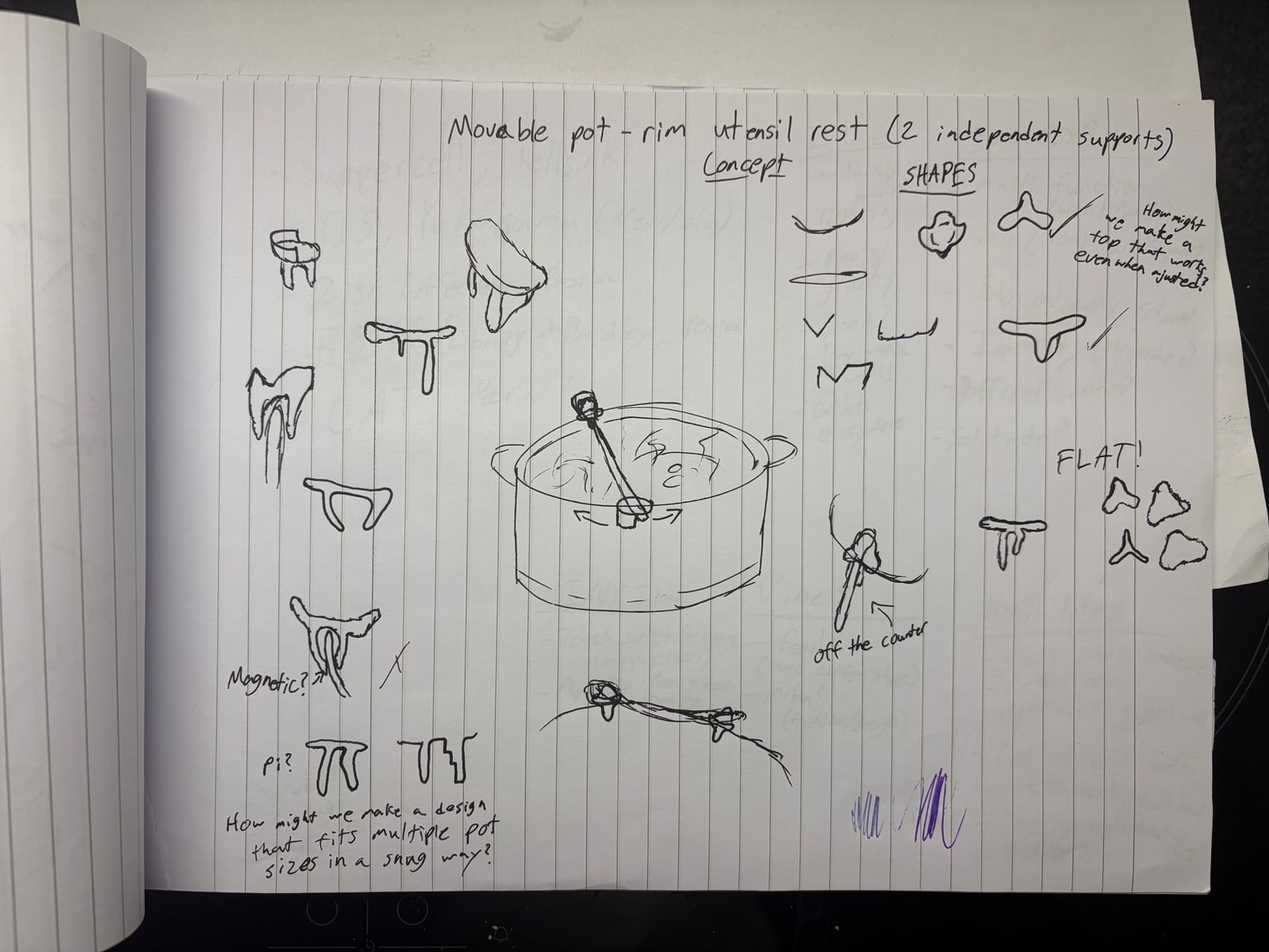
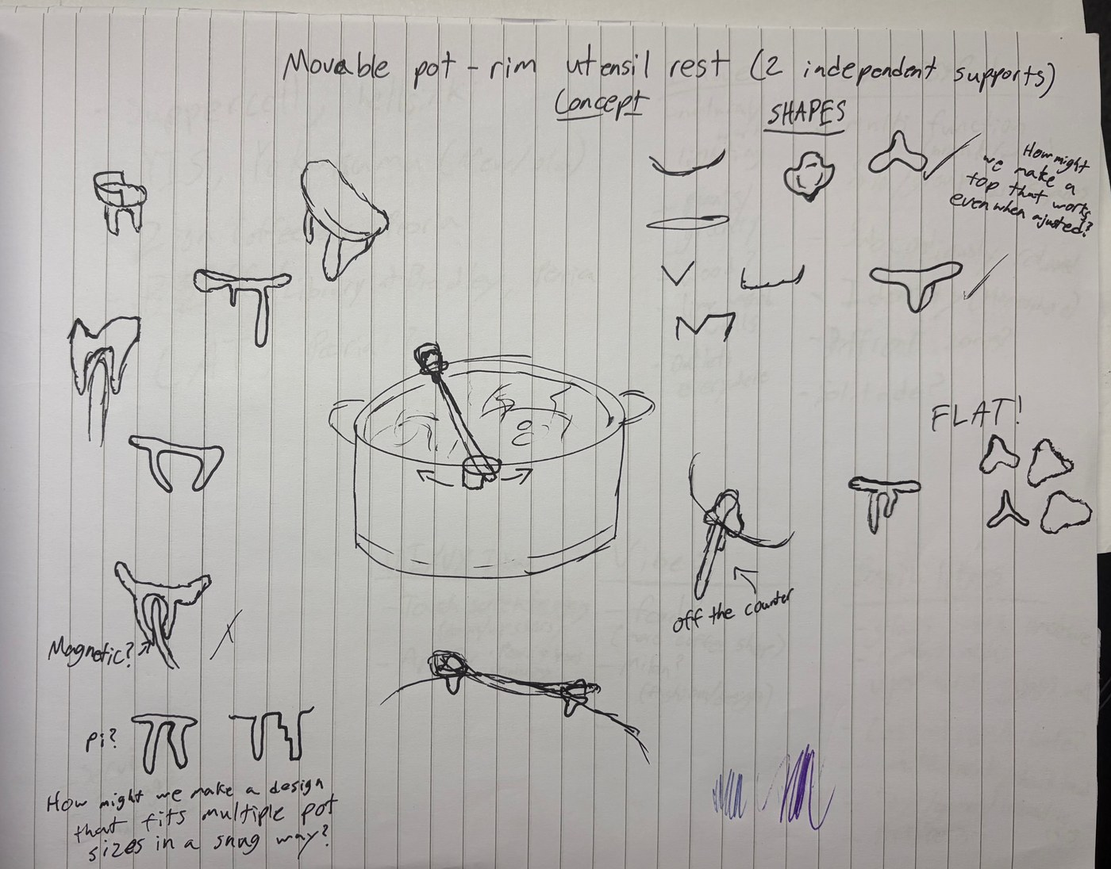
A taller storefront, card 1 cropped to match, and two things cut
Five asks in one pass.

THE RESEARCH SECTION'S CLOSING LINE IS GONE - "I explored five directions,
from an S-hook to an egg cup..." - so the section ends on the notes
themselves. The key went with it rather than being left unreferenced.

THE STOREFRONT IS A NEW PHOTOGRAPH AND A NEW FILENAME. newalessistore.JPG
is the same shopfront framed taller - 9:16 as shot against the old 4:5 - so
it draws 340x600 beside 566px of notes instead of 340x424. The filename is
the point: vercel.json gives everything under /assets/ an hour of freshness
and a WEEK of stale-while-revalidate, so replacing a photograph in place
shows returning visitors the old one for up to a week. For a re-crop that is
a shrug; for a different picture it is wrong. cs-store.* is deleted.

CARD 1'S PAIR IS CROPPED TO ADD UP TO THE PHOTOGRAPH BESIDE IT. Card 2 is a
single 4:5 portrait, 551px of image at a 441px column, so with a 12px gap
and two 3px borders a side the pair owes 533 between them - 345 for the
sketch spread, 188 for the paper profiles. Those two numbers are the aspect
ratios the files now carry: 1400x1096 is 1.277:1, 1400x596 is 2.349:1.
Measured, the stack lands within 7px of card 2 at every width from 320 to
1440, because both sides scale with the column and only the gap does not;
at 1440 and in Japanese it is exact, 557 against 557.

Both re-cropped from the ORIGINALS, not from the exports, which are already
one downscale deep. The profiles lost height and nothing else - the three
[…]

diff --git a/i18n.js b/i18n.js
@@ -86,7 +86,6 @@
       'proj.pot-clip.role': "Design & Fabrication",
       'proj.pot-clip.body': "The brief was a ten-centimetre cube: design a piece of kitchenware in the spirit of Alessi, close enough that you could believe you'd found it in a shop. I started at the Alessi store in Milan, looking at what they actually make — small silver objects, simple, almost always some everyday ritual made slightly better. Then I cooked more than usual and waited for something to annoy me.\n\nWhat annoyed me was the spoon. There's no clean place to put it down: the counter gets messy, and balancing it on the rim means it slides or drops in. Rests for this exist, but most clip in one spot and hold one thing. Mine is two independent supports that sit on the rim and slide along it, so the gap sets itself to whatever you're holding — a wide wooden spoon or a thin metal fork. The best part came out of where it sits rather than what it looks like: resting above the pot means the drips go back into the pot, and there's no second object taking up counter space and needing washing afterwards.\n\nThe shape came off a page of \"how might we\" questions — how to grip several pot sizes snugly, how to keep the top usable when the whole thing sits at an angle. From there: paper profiles cut and held against a pot, then the physical one, sculpted from dense modelling foam in the shop, built up with coats and sprayed to read as metal. It's an appearance model, not a working part. The digital model came last, built from the finished object rather than ahead of it, and it's what the posters are rendered from.\n\nIt isn't resolved, and most of what's wrong with it is physical. In real metal, clipped to a hot pot, these would get too hot to move with bare hands. Pot rims aren't standardised — thin, thick, rolled, flared, some with pouring lips — so one clip profile won't grip them all, and the grip is friction only. The top is flat enough that a round handle could still roll. And it's two objects where the thing already on the market is one. Knowing that list is most of what the project gave me; a next version would start from the heat and the rim profile rather than from the shape.\n\nThis was a student brief at NABA in Milan. It is not affiliated with Alessi, was not commissioned or reviewed by them, and is not a NABA product — the brand was the reference for the exercise, and the posters are classroom art direction rather than a real campaign.",
       'proj.pot-clip.cs.disclaimer': "This was a student brief at NABA in Milan. It is not affiliated with Alessi, was not commissioned or reviewed by them, and is not a NABA product — the brand was the reference for the exercise, and the posters are classroom art direction rather than a real campaign.",
-      'proj.pot-clip.alt.4': "A notebook page of orthographic drawings — top, side, front and bottom views — with the clip dimensioned at 26, 45, 31 and 19 millimetres.",
       'proj.pot-clip.alt.14': "A render of the finished clip on a plain background, showing its curved top and two legs.",
       'proj.pot-clip.cs.eyebrow': "Product design · 2026",
       'proj.pot-clip.cs.lede': "Two movable clips that sit on a pot rim and hold your spoon above the pot.",
@@ -109,7 +108,6 @@
       'proj.pot-clip.cs.brief.b': "Design a piece of kitchenware that fits within a 10 cm cube and could pass for an Alessi product on a store shelf.",
       'proj.pot-clip.cs.research.t': "Research",
       'proj.pot-clip.cs.research.grid': "<dl class=\"cs-defs\"><dt>User observation</dt><dd>I studied my own cooking routine as a user. I cook alone, with very little counter space between my stove and sink. I tracked where my utensils ended up, where drips landed, and how I worked around the lack of space.</dd><dt>In-store market research</dt><dd>I visited the Alessi store in Milan to study the product range in person. Most pieces are small, simple metal objects that make an everyday ritual a little better.</dd><dt>Product and catalog review</dt><dd>I studied the Alessi website and catalog, including the brand’s own cutlery rests, which tend to be large, open forms.</dd><dt>Competitor review</dt><dd>Pot-rim spoon clips already exist. They’re cheap and often charming, but most clip in one fixed spot and hold one utensil.</dd></dl>",
-      'proj.pot-clip.cs.research.close': "I explored five directions, from an S-hook to an egg cup, and chose the utensil rest because it solved a problem I had run into myself.",
       'proj.pot-clip.cs.problem.t': "The problem",
       'proj.pot-clip.cs.problem.b': "<p>While cooking, there’s no clean, secure place to set a utensil down for a moment.</p><ul><li><strong>Instability.</strong> Utensils balanced on a rim roll, slide, or fall in.</li><li><strong>Dripping.</strong> Moving a utensil to a counter rest drips food along the way.</li><li><strong>Space.</strong> A separate spoon rest takes up work surface that small kitchens don’t have.</li></ul>",
       'proj.pot-clip.cs.problem.hmw': "How might we create a stable, adjustable place to rest utensils directly above the pot, keeping both the utensil and the counter clean?",
@@ -138,7 +136,7 @@
       'proj.pot-clip.cs.limits.b': "<p>Testing showed real problems with the concept, and some of them need more research before this could become a product.</p><dl class=\"cs-defs cs-defs-row\"><dt>Rim fit</dt><dd>Testing showed one clip profile fits only about half of pots. Next step: a spring-tension clip or a lined inner surface, plus a larger size for bigger pots.</dd><dt>Heat</dt><dd>In real metal on a hot pot, the clips would get too hot to adjust by hand. Next step: a low-conductivity material where fingers would touch.</dd><dt>Stability</dt><dd>I kept the top flat on purpose so it could hold more kinds of utensils, but a round handle can still roll. Next step: add a shallow cradle for grip, without trying to limit what it holds.</dd><dt>Limited testing</dt><dd>So far, all of the usage research is my own, on a small set of pots. Next step: develop more concepts, test them on a wider range of pots, and refine the strongest one.</dd></dl>",
       'proj.pot-clip.cs.limits.close': "A second version would start with rim fit and heat and let the form follow.",
       'proj.pot-clip.cs.alt.hero': "The silver clip hooked over the rim of a steel bowl, holding a slim wooden rod clear of the bowl.",
-      'proj.pot-clip.cs.alt.store': "The Alessi store in Milan from the street, with products on open wooden shelves behind an arched window.",
+      'proj.pot-clip.cs.alt.store': "The Alessi store in Milan seen from across the street, its arched window full of small metal pieces on open wooden shelves.",
       'proj.pot-clip.cs.alt.sketches': "A notebook spread headed “Movable pot-rim utensil rest”, with profile sketches, a pot in section and a “how might we” note.",
       'proj.pot-clip.cs.alt.profiles': "Three paper profile studies of the clip, cut out and laid on a green cutting mat with pencil dimensions.",
       'proj.pot-clip.cs.alt.foam': "The sculpted foam model held in one hand, with an offcut on the bench behind.",
@@ -351,7 +349,6 @@
       'proj.pot-clip.role': "Diseño y Fabricación",
       'proj.pot-clip.body': "El encargo era un cubo de diez centímetros: diseñar un objeto de cocina en el espíritu de Alessi, lo bastante creíble como para pensar que lo habías encontrado en una tienda. Empecé en la tienda de Alessi en Milán, mirando lo que realmente hacen: objetos pequeños de plata, simples, casi siempre algún ritual cotidiano hecho un poco mejor. Después cociné más de lo habitual y esperé a que algo me molestara.\n\nLo que me molestaba era la cuchara. No hay un sitio limpio donde dejarla: la encimera se ensucia, y apoyarla en el borde hace que resbale o se caiga dentro. Ya existen soportes para esto, pero la mayoría se fijan en un punto y sujetan una sola cosa. El mío son dos apoyos independientes que se sitúan en el borde y se deslizan por él, así que la separación se ajusta a lo que tengas en la mano: una cuchara de madera ancha o un tenedor metálico fino. Lo mejor salió de dónde se coloca, no de su aspecto: al apoyarse sobre la olla, las gotas vuelven a caer dentro, y no hay un segundo objeto ocupando encimera y pendiente de fregar.\n\nLa forma salió de una página de preguntas \"¿cómo podríamos…?\": cómo agarrar bien varios tamaños de olla, cómo mantener útil la parte superior cuando el conjunto queda inclinado. A partir de ahí: perfiles de papel recortados y probados contra una olla, y después el físico, esculpido en espuma de modelado densa en el taller, tratado con capas y pintado para que leyera como metal. Es un modelo de apariencia, no una pieza funcional. El modelo digital llegó al final, construido a partir del objeto terminado y no antes, y es de donde salen los renders de los carteles.\n\nNo está resuelto, y casi todo lo que falla es físico. En metal real, enganchados a una olla caliente, se calentarían demasiado para moverlos con las manos desnudas. Los bordes de las ollas no están estandarizados — finos, gruesos, enrollados, abocinados, algunos con pico — así que un solo perfil no los agarra todos, y el agarre es solo por fricción. La parte superior es lo bastante plana como para que un mango redondo ruede. Y son dos objetos donde lo que ya existe en el mercado es uno. Conocer esa lista es lo que más me dio el proyecto; una versión siguiente partiría del calor y del perfil del borde, no de la forma.\n\nFue un encargo académico en NABA, en Milán. No está afiliado a Alessi, no fue encargado ni revisado por ellos, y no es un producto de NABA: la marca fue la referencia del ejercicio, y los carteles son dirección de arte de clase, no una campaña real.",
       'proj.pot-clip.cs.disclaimer': "Fue un encargo académico en NABA, en Milán. No está afiliado a Alessi, no fue encargado ni revisado por ellos, y no es un producto de NABA: la marca fue la referencia del ejercicio, y los carteles son dirección de arte de clase, no una campaña real.",
-      'proj.pot-clip.alt.4': "Una página de cuaderno con vistas ortográficas — superior, lateral, frontal e inferior — con el soporte acotado en 26, 45, 31 y 19 milímetros.",
       'proj.pot-clip.alt.14': "Un render del soporte terminado sobre fondo liso, mostrando su parte superior curva y sus dos patas.",
       'proj.pot-clip.cs.eyebrow': "Diseño de producto · 2026",
       'proj.pot-clip.cs.lede': "Dos soportes móviles que se apoyan en el borde de la olla y sostienen la cuchara sobre ella.",
@@ -374,7 +371,6 @@
       'proj.pot-clip.cs.brief.b': "Diseñar un utensilio de cocina que quepa en un cubo de 10 cm y que pudiera pasar por un producto de Alessi en una tienda.",
       'proj.pot-clip.cs.research.t': "Investigación",
       'proj.pot-clip.cs.research.grid': "<dl class=\"cs-defs\"><dt>Observación de usuario</dt><dd>Estudié mi propia rutina de cocina como usuario. Cocino solo, con muy poco espacio de encimera entre los fogones y el fregadero. Anoté dónde acababan los utensilios, dónde caían las gotas y cómo sorteaba la falta de espacio.</dd><dt>Investigación en tienda</dt><dd>Visité la tienda de Alessi en Milán para estudiar la gama en persona. La mayoría son objetos pequeños y sencillos de metal que mejoran un poco un gesto cotidiano.</dd><dt>Revisión de producto y catálogo</dt><dd>Estudié la web y el catálogo de Alessi, incluidos sus propios reposacubiertos, que suelen ser formas grandes y abiertas.</dd><dt>Revisión de competencia</dt><dd>Los soportes de cuchara para el borde de la olla ya existen. Son baratos y a menudo simpáticos, pero casi todos se fijan en un punto y sostienen un solo utensilio.</dd></dl>",
-      'proj.pot-clip.cs.research.close': "Exploré cinco direcciones, desde un gancho en S hasta una huevera, y elegí el reposautensilios porque resolvía un problema que yo mismo había tenido.",
       'proj.pot-clip.cs.problem.t': "El problema",
       'proj.pot-clip.cs.problem.b': "<p>Mientras cocinas no hay un sitio limpio y seguro donde dejar un utensilio un momento.</p><ul><li><strong>Inestabilidad.</strong> Un utensilio apoyado en el borde rueda, resbala o se cae dentro.</li><li><strong>Goteo.</strong> Llevar el utensilio a un reposacucharas deja gotas por el camino.</li><li><strong>Espacio.</strong> Un reposacucharas aparte ocupa una encimera que las cocinas pequeñas no tienen.</li></ul>",
       'proj.pot-clip.cs.problem.hmw': "¿Cómo podríamos crear un lugar estable y ajustable para apoyar utensilios justo encima de la olla, manteniendo limpios tanto el utensilio como la encimera?",
@@ -403,7 +399,7 @@
       'proj.pot-clip.cs.limits.b': "<p>Las pruebas mostraron problemas reales del concepto, y algunos necesitan más investigación antes de que esto pudiera ser un producto.</p><dl class=\"cs-defs cs-defs-row\"><dt>Ajuste al borde</dt><dd>Las pruebas mostraron que un solo perfil encaja en cerca de la mitad de las ollas. Siguiente paso: un soporte con tensión de muelle o una superficie interior forrada, más una talla mayor para ollas grandes.</dd><dt>Calor</dt><dd>En metal real sobre una olla caliente, los soportes estarían demasiado calientes para ajustarlos con la mano. Siguiente paso: un material de baja conductividad donde tocan los dedos.</dd><dt>Estabilidad</dt><dd>Dejé la parte superior plana a propósito para que sostuviera más tipos de utensilios, pero un mango redondo aún puede rodar. Siguiente paso: añadir una cuna poco profunda para el agarre, sin limitar lo que puede sostener.</dd><dt>Pruebas limitadas</dt><dd>Hasta ahora toda la investigación de uso es mía, sobre pocas ollas. Siguiente paso: desarrollar más conceptos, probarlos en más ollas y refinar el más sólido.</dd></dl>",
       'proj.pot-clip.cs.limits.close': "Una segunda versión empezaría por el ajuste al borde y el calor, y dejaría que la forma siguiera.",
       'proj.pot-clip.cs.alt.hero': "El soporte plateado enganchado al borde de un bol de acero, sosteniendo una varilla de madera por encima del bol.",
-      'proj.pot-clip.cs.alt.store': "La tienda de Alessi en Milán desde la calle, con productos en estantes de madera tras un escaparate en arco.",
+      'proj.pot-clip.cs.alt.store': "La tienda de Alessi en Milán vista desde la acera de enfrente, con su escaparate en arco lleno de pequeñas piezas de metal en estantes de madera.",
       'proj.pot-clip.cs.alt.sketches': "Una doble página de cuaderno titulada “Movable pot-rim utensil rest”, con bocetos de perfil, una olla en sección y una nota “cómo podríamos”.",
       'proj.pot-clip.cs.alt.profiles': "Tres estudios de perfil en papel del soporte, recortados sobre una base de corte verde con cotas a lápiz.",
       'proj.pot-clip.cs.alt.foam': "El modelo de espuma tallado sostenido en una mano, con un recorte en la mesa al fondo.",
@@ -614,7 +610,6 @@
       'proj.pot-clip.role': "デザイン・制作",
       'proj.pot-clip.body': "課題は10センチ四方の立方体に収まるキッチン用品を、アレッシィらしさをもって設計すること。店で見かけても不思議ではない完成度が条件でした。まずミラノのアレッシィの店に行き、実際に作られているものを見ました。小さな銀色の道具、簡潔な形、そしてたいていは日常のささやかな所作を少しだけよくするもの。それから普段より多く料理をして、自分が不便だと感じる瞬間を待ちました。\n\n気になったのはスプーンでした。置き場所がない。調理台に置けば汚れ、鍋のふちに掛ければ滑って中に落ちる。同じ用途の道具はすでにありますが、多くは一箇所に固定され、一種類しか支えられません。これは独立した2つの支点が鍋のふちに載り、ふちに沿って動きます。だから間隔が、手に持っているもの——幅のある木べらでも、細い金属のフォークでも——に合わせて決まります。いちばんよかったのは見た目ではなく位置でした。鍋の上で支えるので、落ちた滴は鍋に戻る。調理台を占領して後で洗う必要のある道具が増えることもありません。\n\n形は「どうすれば〜できるか」を並べた一枚のページから出てきました。複数の鍋のサイズをしっかり掴むには。全体が傾いたときも上面を使えるようにするには。そこから、紙で切り出した断面を鍋に当て、次に実物を——工房で密度の高いモデリングフォームを削り出し、下地を重ね、金属に見えるよう塗装しました。これは外観モデルであり、実用品ではありません。3Dモデルは最後です。先につくるのではなく、完成した実物から起こしたもので、ポスターのレンダリングはこれを使っています。\n\n完成とは言えず、問題のほとんどは物理的なものです。本当に金属で作り、熱い鍋に取り付ければ、素手で動かせないほど熱くなるでしょう。鍋のふちには規格がありません。薄いもの、厚いもの、巻き込んだもの、広がったもの、注ぎ口のあるもの。ひとつの断面ですべてを掴むことはできず、しかも保持は摩擦だけに頼っています。上面は平らなので、丸い柄なら転がる余地があります。そして既製品がひとつで済むところを、これは2つ必要です。その一覧を得られたことが、この課題のいちばんの収穫でした。次に作るなら、形からではなく、熱とふちの断面から始めます。\n\nこれはミラノのNABAでの学内課題です。アレッシィとの提携はなく、同社からの依頼も監修も受けておらず、NABAの製品でもありません。ブランドはあくまで課題の参照先であり、ポスターは授業内のアートディレクションであって実際の広告ではありません。",
       'proj.pot-clip.cs.disclaimer': "これはミラノのNABAでの学内課題です。アレッシィとの提携はなく、同社からの依頼も監修も受けておらず、NABAの製品でもありません。ブランドはあくまで課題の参照先であり、ポスターは授業内のアートディレクションであって実際の広告ではありません。",
-      'proj.pot-clip.alt.4': "三面図を描いたノートのページ。上面・側面・正面・底面の図があり、26・45・31・19ミリの寸法が記入されている。",
       'proj.pot-clip.alt.14': "完成したレストのレンダリング。無地の背景に、曲面の上部と2本の脚が見える。",
       'proj.pot-clip.cs.eyebrow': "プロダクトデザイン · 2026",
       'proj.pot-clip.cs.lede': "鍋のふちに掛けてスプーンを鍋の上に保持する、位置を動かせる2つのクリップ。",
@@ -637,7 +632,6 @@
       'proj.pot-clip.cs.brief.b': "10cmの立方体に収まり、店頭でAlessi製品として通用するキッチン用品をデザインすること。",
       'proj.pot-clip.cs.research.t': "リサーチ",
       'proj.pot-clip.cs.research.grid': "<dl class=\"cs-defs\"><dt>ユーザー観察</dt><dd>自分自身の調理の習慣をユーザーとして観察した。一人で料理をし、コンロとシンクの間の作業スペースはごくわずかだ。調理器具がどこに置かれ、どこにしたたりが落ち、狭さをどう回避しているかを記録した。</dd><dt>店頭での市場調査</dt><dd>ミラノのAlessi店舗を訪れ、製品群を実際に見て調べた。多くは小さくシンプルな金属製品で、日常の所作を少しだけ良くするものだ。</dd><dt>製品とカタログの調査</dt><dd>Alessiのウェブサイトとカタログを調べた。同社のカトラリーレストは、大きく開いた形状が多い。</dd><dt>競合調査</dt><dd>鍋のふちに掛けるスプーンクリップは既にある。安価で愛嬌のあるものも多いが、ほとんどは一か所に固定され、器具を1本しか支えられない。</dd></dl>",
-      'proj.pot-clip.cs.research.close': "S字フックからエッグカップまで5つの方向を検討し、自分自身がぶつかっていた問題を解くという理由でレストを選んだ。",
       'proj.pot-clip.cs.problem.t': "課題",
       'proj.pot-clip.cs.problem.b': "<p>調理中、調理器具をちょっと置いておける清潔で安定した場所がない。</p><ul><li><strong>不安定。</strong> ふちに載せた器具は転がり、滑り、鍋に落ちる。</li><li><strong>したたり。</strong> 調理台のレストまで運ぶ間に食材が垂れる。</li><li><strong>場所。</strong> 独立したスプーンレストは、狭い台所にはない作業面を占有する。</li></ul>",
       'proj.pot-clip.cs.problem.hmw': "調理器具と調理台の両方を清潔に保ったまま、鍋の真上に安定して位置を調整できる置き場所をつくるには、どうすればよいか。",
@@ -666,7 +660,7 @@
       'proj.pot-clip.cs.limits.b': "<p>テストによってコンセプトの実際の問題が見えた。製品にするには、さらに調査が必要なものもある。</p><dl class=\"cs-defs cs-defs-row\"><dt>ふちへの適合</dt><dd>ひとつの断面では鍋の約半数にしか合わないことが分かった。次の一手：ばね張力式のクリップ、または内面にライニングを施すこと。加えて大きな鍋向けの大きいサイズ。</dd><dt>熱</dt><dd>実際の金属で熱い鍋に掛ければ、手で位置を直せないほど熱くなる。次の一手：指が触れる部分に熱伝導率の低い素材を使うこと。</dd><dt>安定性</dt><dd>多様な器具を支えられるよう、上面はあえて平らにした。しかし丸い柄は転がりうる。支える対象を狭めない範囲で、浅い窪みを加えるのが次の一手。</dd><dt>限られたテスト</dt><dd>現時点で使用に関する調査はすべて自分自身、しかも少数の鍋によるものだ。次の一手：案をさらに展開し、より広い範囲の鍋で試し、最も強い案を磨くこと。</dd></dl>",
       'proj.pot-clip.cs.limits.close': "次の版をつくるなら、ふちへの適合と熱から始め、形はそれに従わせる。",
       'proj.pot-clip.cs.alt.hero': "ステンレスボウルのふちに掛けた銀色のクリップが、細い木の棒をボウルの上に支えている。",
-      'proj.pot-clip.cs.alt.store': "通りから見たミラノのAlessi店舗。アーチ型の窓の奥、木の棚に製品が並ぶ。",
+      'proj.pot-clip.cs.alt.store': "通りの向かいから見たミラノのAlessi店舗。アーチ型の窓の奥、木の棚に小さな金属製品が並ぶ。",
       'proj.pot-clip.cs.alt.sketches': "「Movable pot-rim utensil rest」と見出しのついたノートの見開き。断面のスケッチ、鍋の断面図、「どうすれば」のメモがある。",
       'proj.pot-clip.cs.alt.profiles': "クリップの断面を紙で切り出した3つの検討。緑のカッティングマットの上に、鉛筆の寸法とともに並ぶ。",
       'proj.pot-clip.cs.alt.foam': "削り出したフォームモデルを片手で持つ。奥の作業台には切り落としが置かれている。",
@@ -877,7 +871,6 @@
       'proj.pot-clip.role': "Design e Realizzazione",
       'proj.pot-clip.body': "Il brief era un cubo di dieci centimetri: progettare un oggetto da cucina nello spirito di Alessi, credibile al punto da pensare di averlo trovato in negozio. Sono partito dal negozio Alessi a Milano, guardando quello che fanno davvero: piccoli oggetti argentati, semplici, quasi sempre un gesto quotidiano reso un po' migliore. Poi ho cucinato più del solito e ho aspettato che qualcosa mi desse fastidio.\n\nQuello che mi dava fastidio era il cucchiaio. Non c'è un posto pulito dove appoggiarlo: il piano si sporca, e tenerlo in equilibrio sul bordo vuol dire che scivola o cade dentro. Appoggi del genere esistono già, ma quasi tutti si fissano in un punto solo e reggono una cosa sola. Il mio è fatto di due supporti indipendenti che stanno sul bordo e scorrono lungo di esso, così la distanza si regola da sé su quello che hai in mano: un mestolo di legno largo o una forchetta di metallo sottile. La parte migliore è venuta da dove si appoggia, non da come appare: stando sopra la pentola, le gocce tornano dentro, e non c'è un secondo oggetto che occupa il piano e poi va lavato.\n\nLa forma è nata da una pagina di domande \"come potremmo…\": come stringere bene pentole di diametri diversi, come tenere utilizzabile la parte superiore quando tutto è inclinato. Da lì: profili ritagliati nella carta e provati contro una pentola, e poi quello fisico, scolpito in schiuma da modellazione densa in laboratorio, trattato a mani di fondo e verniciato per leggere come metallo. È un modello di aspetto, non un pezzo funzionante. Il modello digitale è arrivato per ultimo, costruito a partire dall'oggetto finito e non prima, ed è da lì che vengono i render dei manifesti.\n\nNon è risolto, e quasi tutto ciò che non va è fisico. In metallo vero, agganciati a una pentola calda, diventerebbero troppo caldi da spostare a mani nude. I bordi delle pentole non sono standardizzati — sottili, spessi, arrotolati, svasati, alcuni con il beccuccio — quindi un solo profilo non li tiene tutti, e la presa è solo attrito. La parte superiore è abbastanza piatta da lasciar rotolare un manico tondo. Ed è fatto di due oggetti dove quello già in commercio è uno. Conoscere quella lista è gran parte di ciò che il progetto mi ha dato; una versione successiva partirebbe dal calore e dal profilo del bordo, non dalla forma.\n\nQuesto è un esercizio accademico svolto alla NABA di Milano. Non è affiliato ad Alessi, non è stato commissionato né revisionato da loro, e non è un prodotto NABA: il marchio è stato il riferimento dell'esercizio, e i manifesti sono direzione artistica didattica, non una campagna reale.",
       'proj.pot-clip.cs.disclaimer': "Questo è un esercizio accademico svolto alla NABA di Milano. Non è affiliato ad Alessi, non è stato commissionato né revisionato da loro, e non è un prodotto NABA: il marchio è stato il riferimento dell'esercizio, e i manifesti sono direzione artistica didattica, non una campagna reale.",
-      'proj.pot-clip.alt.4': "Una pagina di quaderno con viste ortogonali — dall'alto, di lato, di fronte e dal basso — con l'appoggio quotato a 26, 45, 31 e 19 millimetri.",
       'proj.pot-clip.alt.14': "Un render dell'appoggio finito su sfondo neutro, con la parte superiore curva e le due gambe.",
       'proj.pot-clip.cs.eyebrow': "Product design · 2026",
       'proj.pot-clip.cs.lede': "Due supporti mobili che poggiano sul bordo della pentola e tengono il cucchiaio sopra di essa.",
@@ -900,7 +893,6 @@
       'proj.pot-clip.cs.brief.b': "Progettare un oggetto da cucina che stia in un cubo di 10 cm e che possa passare per un prodotto Alessi su uno scaffale.",
       'proj.pot-clip.cs.research.t': "Ricerca",
       'proj.pot-clip.cs.research.grid': "<dl class=\"cs-defs\"><dt>Osservazione d’uso</dt><dd>Ho studiato la mia routine in cucina come utente. Cucino da solo, con pochissimo piano fra fornelli e lavello. Ho annotato dove finivano gli utensili, dove cadevano le gocce e come aggiravo la mancanza di spazio.</dd><dt>Ricerca in negozio</dt><dd>Ho visitato il negozio Alessi a Milano per studiare la gamma dal vivo. Quasi tutti i pezzi sono piccoli oggetti di metallo, semplici, che migliorano un gesto quotidiano.</dd><dt>Prodotto e catalogo</dt><dd>Ho studiato il sito e il catalogo Alessi, compresi i suoi appoggia-posate, che tendono a essere forme grandi e aperte.</dd><dt>Concorrenza</dt><dd>I fermacucchiaio da bordo pentola esistono già. Costano poco e spesso sono simpatici, ma quasi tutti si fissano in un punto solo e reggono un utensile.</dd></dl>",
-      'proj.pot-clip.cs.research.close': "Ho esplorato cinque direzioni, da un gancio a S a un portauovo, e ho scelto l’appoggia-utensili perché risolveva un problema che avevo incontrato io stesso.",
       'proj.pot-clip.cs.problem.t': "Il problema",
       'proj.pot-clip.cs.problem.b': "<p>Mentre si cucina non c’è un posto pulito e stabile dove appoggiare un utensile per un momento.</p><ul><li><strong>Instabilità.</strong> Un utensile in bilico sul bordo rotola, scivola o cade dentro.</li><li><strong>Gocciolamento.</strong> Portare l’utensile a un appoggio sul piano lascia gocce lungo il percorso.</li><li><strong>Spazio.</strong> Un appoggia-cucchiaio separato occupa un piano che le cucine piccole non hanno.</li></ul>",
       'proj.pot-clip.cs.problem.hmw': "Come potremmo creare un appoggio stabile e regolabile proprio sopra la pentola, mantenendo puliti sia l’utensile sia il piano?",
@@ -929,7 +921,7 @@
       'proj.pot-clip.cs.limits.b': "<p>I test hanno mostrato problemi reali del concept, e alcuni richiedono altra ricerca prima che questo possa diventare un prodotto.</p><dl class=\"cs-defs cs-defs-row\"><dt>Calzata sul bordo</dt><dd>I test hanno mostrato che un solo profilo si adatta a circa metà delle pentole. Prossimo passo: un supporto a molla o una superficie interna rivestita, più una misura più grande.</dd><dt>Calore</dt><dd>In metallo vero su una pentola calda, i supporti scotterebbero troppo per spostarli a mano. Prossimo passo: un materiale a bassa conducibilità dove toccano le dita.</dd><dt>Stabilità</dt><dd>Ho tenuto la parte superiore piatta di proposito, per reggere più tipi di utensile, ma un manico tondo può ancora rotolare. Prossimo passo: una culla poco profonda per la presa, senza limitare ciò che regge.</dd><dt>Test limitati</dt><dd>Finora tutta la ricerca d’uso è la mia, su poche pentole. Prossimo passo: sviluppare altri concept, provarli su più pentole e affinare il più solido.</dd></dl>",
       'proj.pot-clip.cs.limits.close': "Una seconda versione partirebbe dalla calzata sul bordo e dal calore, lasciando che la forma segua.",
       'proj.pot-clip.cs.alt.hero': "Il supporto argentato agganciato al bordo di una ciotola d’acciaio, che tiene un’asta di legno sollevata dalla ciotola.",
-      'proj.pot-clip.cs.alt.store': "Il negozio Alessi a Milano visto dalla strada, con i prodotti su scaffali di legno dietro una vetrina ad arco.",
+      'proj.pot-clip.cs.alt.store': "Il negozio Alessi a Milano visto dall’altro lato della strada, con la vetrina ad arco piena di piccoli oggetti di metallo su scaffali di legno.",
       'proj.pot-clip.cs.alt.sketches': "Una doppia pagina di quaderno intitolata “Movable pot-rim utensil rest”, con schizzi di profilo, una pentola in sezione e una nota “come potremmo”.",
       'proj.pot-clip.cs.alt.profiles': "Tre studi di profilo in carta del supporto, ritagliati su un tappetino da taglio verde con quote a matita.",
       'proj.pot-clip.cs.alt.foam': "Il modello in schiuma scolpito tenuto in una mano, con uno scarto sul banco dietro.",

diff --git a/script.js b/script.js
@@ -244,14 +244,20 @@ const projectData = {
         // the storefront sits in the column beside the notes; the sketch
         // spread went down to the first process card, which is where the
         // sketching actually happens in the story
+        /* A NEW FILENAME, NOT NEW BYTES AT THE OLD ONE. vercel.json gives
+           everything under /assets/ an hour of freshness and a week of
+           stale-while-revalidate, so replacing a photograph in place shows
+           returning visitors the old one for up to a week. Harmless for a
+           re-crop, which only looks slightly different; this is a different
+           photograph, taller on purpose (9:16 as shot, against the old 4:5)
+           so the column beside the notes is about as deep as they are. */
         { id: 'research', title: 'proj.pot-clip.cs.research.t',
           html: 'proj.pot-clip.cs.research.grid', aside: true,
           figures: [
-            { src: '/assets/projects/pot-clip/cs-store.jpg', w: 1200, h: 1500,
-              full: '/assets/projects/pot-clip/cs-store.jpg',
+            { src: '/assets/projects/pot-clip/cs-storefront.jpg', w: 1000, h: 1778,
+              full: '/assets/projects/pot-clip/cs-storefront.jpg',
               altKey: 'proj.pot-clip.cs.alt.store' },
-          ],
-          after: 'proj.pot-clip.cs.research.close' },
+          ] },
 
         { id: 'problem', title: 'proj.pot-clip.cs.problem.t',
           html: 'proj.pot-clip.cs.problem.b',
@@ -262,23 +268,19 @@ const projectData = {
         // the turntable's band. `stage: true` relocates #projectStage into
         // this section rather than duplicating it - there is one canvas and
         // one poster, and renderProjectStage owns both.
-        /* The dimensioned page sits with the DESIGN rather than with the
-           process, and it moved here when the process became four cards.
-           It is the orthographic views and the millimetres - 26 / 45 / 31 /
-           19 - so it documents what the thing IS, which is this section,
-           where in a list of making-of photographs it was the one that was
-           not a photograph of making anything.
-             Shot in portrait with the page turned, so it arrived on its side
-           and stayed that way for a release. Rotated 90 degrees anticlockwise
-           and baked to orientation 1 - see the double-rotation gotcha in
-           assets/README.md for why the EXIF tag is not the way to do it. */
+        /* NO FIGURE HERE. The dimensioned notebook page sat under the
+           turntable for two commits and Jack cut it: "right above the
+           Process area there is a photo of paper, can we take that out?"
+           He is right about what it was doing - the section already ends in
+           a 3D object you can turn, which is the most complete answer to
+           "what is it" this page has, and a drawing of the same object
+           underneath that is a second answer to a question already
+           answered. It also put a photograph of a notebook page directly
+           above the first process card, which is a photograph of a notebook
+           page. The file stays in assets/; the alt text is in the restore
+           note. */
         { id: 'design', title: 'proj.pot-clip.cs.design.t',
-          html: 'proj.pot-clip.cs.design.b', stage: true,
-          figures: [
-            { src: '/assets/projects/pot-clip/04-measurements.jpg', w: 1399, h: 779,
-              full: '/assets/projects/pot-clip/04-measurements-full.jpg',
-              altKey: 'proj.pot-clip.alt.4' },
-          ] },
+          html: 'proj.pot-clip.cs.design.b', stage: true },
 
         /* FOUR CARDS: one photograph and one line each. Jack, with a
            mock-up: "turn the process part into some cards like this to make
@@ -308,20 +310,28 @@ const projectData = {
            argument the figure rows already lost. */
         { id: 'process', title: 'proj.pot-clip.cs.process.t',
           steps: [
-            /* TWO PHOTOGRAPHS HERE, AND THEY EVEN THE ROW UP. The sketch
-               spread came down from Research, where it was the second of
-               two figures; stacked under the paper profiles it takes this
-               card to about the height of the foam model beside it, which
-               is what the 2x2 was missing - one card was 344 against 672.
-               The earlier note about two stacked portraits blowing a card
-               out still holds: these are two LANDSCAPES, 249 and 332 tall
-               at 442 wide, which is why it works here and did not there. */
+            /* TWO PHOTOGRAPHS, CROPPED TO ADD UP TO THE ONE BESIDE THEM.
+               Jack: "crop the heights of the Card 1 photos so that they are
+               the same height as the photo next to it." Card 2 is a single
+               4:5 portrait, 551px of image at a 441px column; this pair owes
+               the same, so after a 12px gap and two 3px borders a side they
+               owe 533 between them. The sketch spread takes 345 and the
+               paper profiles 188, and those two numbers are the aspect
+               ratios below - 1400x1096 is 1.277:1 and 1400x596 is 2.349:1.
+               Re-cropped from the ORIGINALS rather than from the exports,
+               so nothing is resampled twice.
+                 The profiles lost height and nothing else: the three paper
+               pieces occupy the middle 48% of that frame and the rest is
+               cutting mat. The sketch spread was cropped in on every side -
+               "so it looks more zoomed in and we just see the paper" - to
+               just inside the notebook page, which drops the dark desk it
+               was lying on and keeps the title and both questions. */
             { label: 'proj.pot-clip.cs.process.1',
               text: 'proj.pot-clip.cs.process.1b', figures: [
-              { src: '/assets/projects/pot-clip/cs-profiles.jpg', w: 1400, h: 788,
+              { src: '/assets/projects/pot-clip/cs-profiles.jpg', w: 1400, h: 596,
                 full: '/assets/projects/pot-clip/cs-profiles.jpg',
                 altKey: 'proj.pot-clip.cs.alt.profiles' },
-              { src: '/assets/projects/pot-clip/cs-sketches.jpg', w: 1600, h: 1200,
+              { src: '/assets/projects/pot-clip/cs-sketches.jpg', w: 1400, h: 1096,
                 full: '/assets/projects/pot-clip/cs-sketches.jpg',
                 altKey: 'proj.pot-clip.cs.alt.sketches' },
             ] },

diff --git a/CLAUDE.md b/CLAUDE.md
@@ -1717,14 +1717,33 @@ something the panel does not.
 PROVES WHY.** Step 2 first kept two — the foam and the spray booth — and
 two stacked PORTRAITS in a 215px column made that card **688px tall against
 175** for the other three, so the booth shot came out (still in `assets/`,
-alt text in the restore note). Card 1 now carries two and it is fine,
-because they are two LANDSCAPES: 249 and 332 tall at 442 wide, which takes
-it to **692 against the foam model's 671** — the thing the 2×2 was missing,
-since those two were 344 and 672. **The shape of the photograph decides
-this, not the count.**
-**Nothing is cropped to even a row up** — a square or 4:3 tile takes 25–44%
-off the width of a 1400×788 source, and on the paper-profiles shot that is
-the outer two profiles.
+alt text in the restore note). Card 1 carries two and it is fine, because
+they are two LANDSCAPES. **The shape of the photograph decides this, not the
+count.**
+**AND CARD 1'S PAIR IS CROPPED TO ADD UP TO THE ONE BESIDE IT.** Jack:
+*"crop the heights of the Card 1 photos so that they are the same height as
+the photo next to it."* Card 2 is a single 4:5 portrait, 551px of image at a
+441px column, so with a 12px gap and two 3px borders a side the pair owes
+**533 between them — 345 for the sketch spread and 188 for the paper
+profiles**. Those two numbers are the aspect ratios the files carry:
+**1400×1096 is 1.277:1 and 1400×596 is 2.349:1**. Measured, the stack lands
+within **7px of card 2 at every width from 320 to 1440**, because both sides
+scale with the column and only the 12px gap does not.
+**Re-cropped from the ORIGINALS, not from the exports** — the files in
+`assets/` are already one downscale deep and cropping those resamples them
+twice.
+**What each crop took.** The profiles lost height and nothing else: the
+three paper pieces occupy the middle 48% of that frame and the rest is
+cutting mat. The sketch spread came in on every side, *"so it looks more
+zoomed in and we just see the paper"* — to just inside the notebook page,
+which drops the dark desk it was lying on and keeps the title and both
+handwritten questions. **The bottom question sits close to the edge**, so
+the window is slid 1% of the frame down from centre; take any more height
+off the bottom and it goes.
+**Cropping to even a row up is still wrong as a general move** — a square or
+4:3 TILE takes 25–44% off the WIDTH of a 1400×788 source, and on the
+paper-profiles shot that is the outer two profiles. What is fine here is
+cropping each photograph to a chosen ratio in the direction it has room.
 The number is a CSS counter (`decimal-leading-zero`), not part of the
 string: it cannot drift from the order and there is nothing to translate
 four times. **It carries no `font-weight`**, and it did for one commit —
@@ -1740,10 +1759,15 @@ later in the file, so an equal-weight override lost and the foam shot drew
 394px inside a 448px card — narrower than the card holding it, which reads
 as a mistake rather than a choice.
 
-**The dimensioned notebook page moved to "The design"** when that happened.
-It is the orthographic views and the millimetres, so it documents what the
-thing IS; in a row of making-of photographs it was the one that was not a
-photograph of making anything.
+**The dimensioned notebook page moved to "The design"** when the cards
+arrived, and then **came out of the page entirely**. Jack: *"right above the
+Process area there is a photo of paper, can we take that out?"* He is right
+about what it was doing. The section already ends on a 3D object you can
+turn, which is the most complete answer to "what is it" this page has, and a
+drawing of the same object underneath is a second answer to a question
+already answered — sitting directly above a process card that is itself a
+photograph of a notebook page. The files stay in `assets/`;
+`proj.pot-clip.alt.4` and the rest are in the restore note.
 
 **RESEARCH PUTS ITS PHOTOGRAPH BESIDE ITS PROSE**, off an `aside` flag and
 `.cs-split`. Jack: *"move the alessi photo to the right of the research
@@ -1752,7 +1776,17 @@ so it is the tallest column of plain text on the page, and the storefront
 was a portrait sitting under all of it doing nothing for the shape. The
 sketch spread that used to sit next to it went down to process card 1,
 which is both where sketching belongs in the story and what evens that row
-up.
+up. **The closing line went too** — *"I explored five directions, from an
+S-hook to an egg cup…"* — so the section now ends on the notes themselves.
+**The photograph is `cs-storefront`, and the new filename is the point.**
+It is a different, taller frame of the same shopfront (9:16 as shot, against
+the old 4:5), which draws 340×600 beside 566px of notes. `vercel.json` gives
+everything under `/assets/` an hour of freshness and a **week** of
+stale-while-revalidate, so replacing a photograph in place shows returning
+visitors the old one for up to a week. For a re-crop that is a shrug; for a
+different picture it is wrong, so it got its own path and `cs-store.*` was
+deleted. (The two re-crops above DID reuse their paths, deliberately: a
+stale crop is briefly a slightly different crop, and it heals itself.)
 **A flag, not a rule**: it only pays where the prose is tall enough to stand
 a column beside it. Under a short paragraph the same photograph is a small
 picture in a wide gap.
